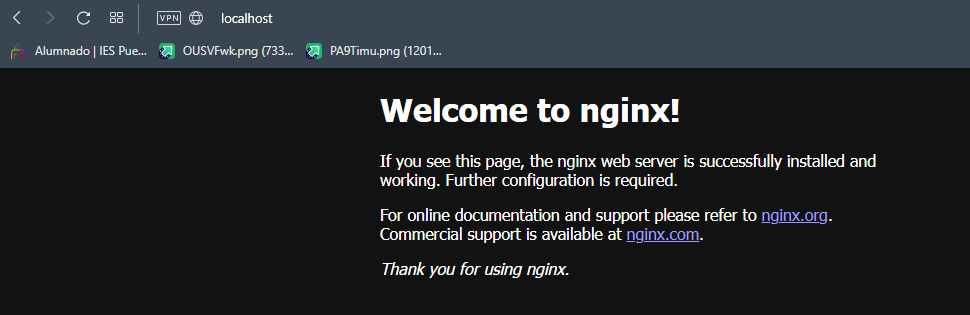
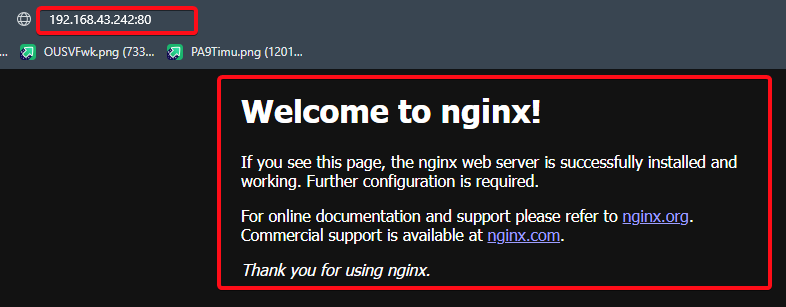
done

Changed region(s): [[0.0, 0.0, 1.0, 0.9674]]

diff --git a/task_2/README.md b/task_2/README.md
@@ -569,10 +569,17 @@ After followed all the steps we have the HTTP protocol working and opened with t
 
 ## **TESTING HTTP PROTOCOL**
 
-To prove that our firewall rule it`s working even when we configurated it in a different way we just can use the command ``docker ps``, this command it's going to show us the containers that we have running and the ports that we are using.
+To prove that our firewall rule it`s working even when we configurated it in a different way we just can use the command ``docker ps``, this command it's going to show us the containers that we have running and the ports that we are being used.
 
 ![](img/55.png)
 
+After we checked that the port it's opened we can go to the browser and using the ip of our machine **(192.168.43.242)** nginx it will be owrking using the **port 80.**
+
+```
+192.168.43.424:80
+```
+
+![](img/56.png)
 
 
 ## ***Closure***. <a name="id5"></a>
